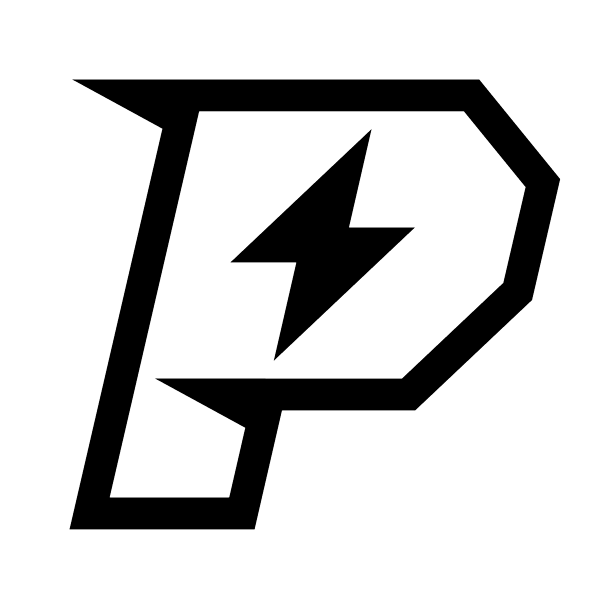
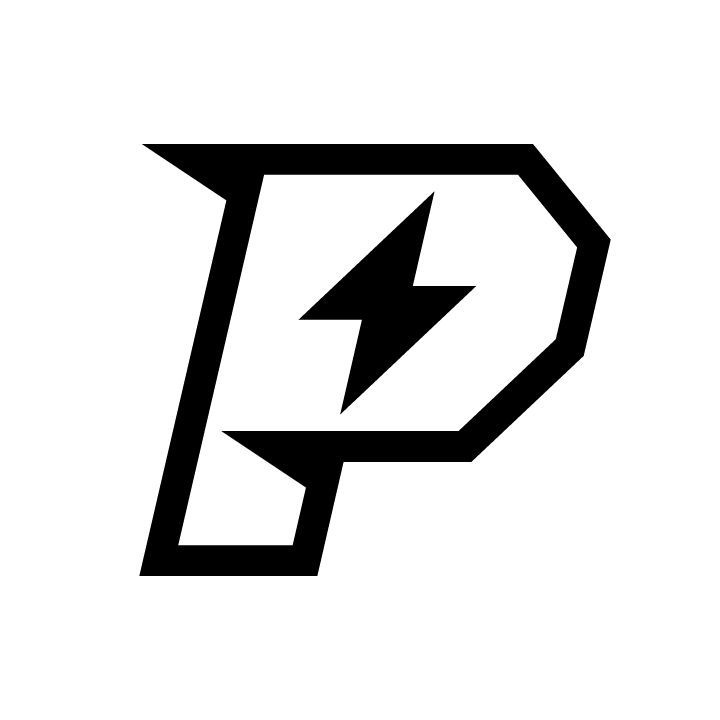
Bada bing! Wit a pipe!

Changed region(s): [[0.12, 0.12, 0.93, 0.9]]

diff --git a/about.html b/about.html
@@ -176,11 +176,12 @@
               <div class="slider">
                 <svg version="1.1" class="icons pabicon" focusable="false" xmlns="http://www.w3.org/2000/svg" xmlns:xlink="http://www.w3.org/1999/xlink"
         x="0px" y="0px" viewBox="0 0 512 512" style="enable-background:new 0 0 512 512;" class="pabicon" xml:space="preserve">
-        <g>	<polygon fill="currentColor" points="360.511,175.621 291.64,175.621 315.21,73.064 167.821,212.247 236.692,212.247 213.122,314.804 	"/>
-	   <path fill="currentColor" d="M509.735,122.456l-80.086-98.499l-2.199-2.705h-3.486H12.725H2.777l94.154,51.416L2.083,481.766L0,490.749h9.222h178.099
-		h5.832l1.309-5.684l27.272-118.42h135.971h2.913l2.118-2l118.332-111.741l1.605-1.517l0.501-2.152l28.013-120.498l0.812-3.497
-		L509.735,122.456z M89.222,333.27l94.155,51.416l-16.751,72.732H41.941l93.385-402.836h276.243l64.275,78.992l-23.243,99.98
-		l-105.647,99.76L89.222,333.27z"/> </g>
+        <g>	<polygon fill="currentColor" points="357.006,182.041 293.635,182.041 315.322,87.675 179.705,215.741 243.075,215.741 221.388,310.107 	"/>
+	<path fill="currentColor" d="M489.47,133.121L415.78,42.489L413.757,40h-3.208H32.155h-9.154l84.541,56.339l-85.18,367.396L20.446,472h8.485h163.875
+		h5.367l1.205-5.229l25.094-108.962h125.111h2.681l1.949-1.841l108.881-102.816l1.478-1.396l0.461-1.98l25.774-110.874l0.748-3.218
+		L489.47,133.121z M102.542,327.099l84.548,56.368l-13.326,57.864H59.037l85.926-370.663h254.18l59.142,72.684l-21.387,91.995
+		l-97.21,91.792L102.542,327.099z"/>
+</g>
                 </svg>
                 <hr style="margin-left: 0">
                 <h5>THIS IS ME.</h5>
